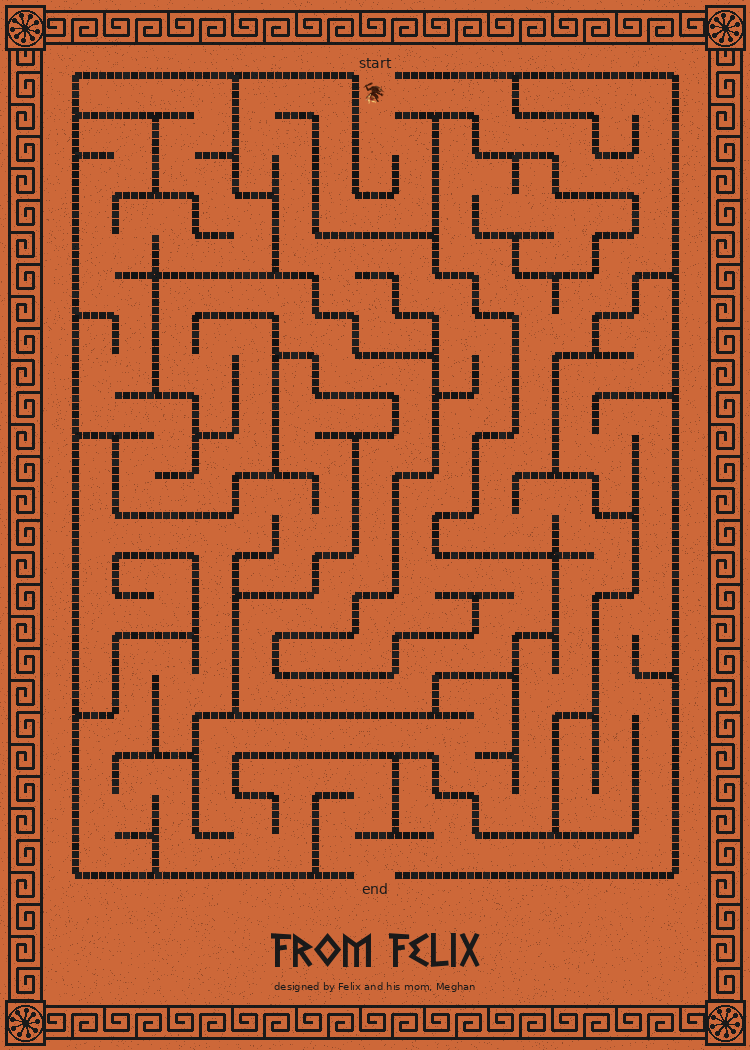
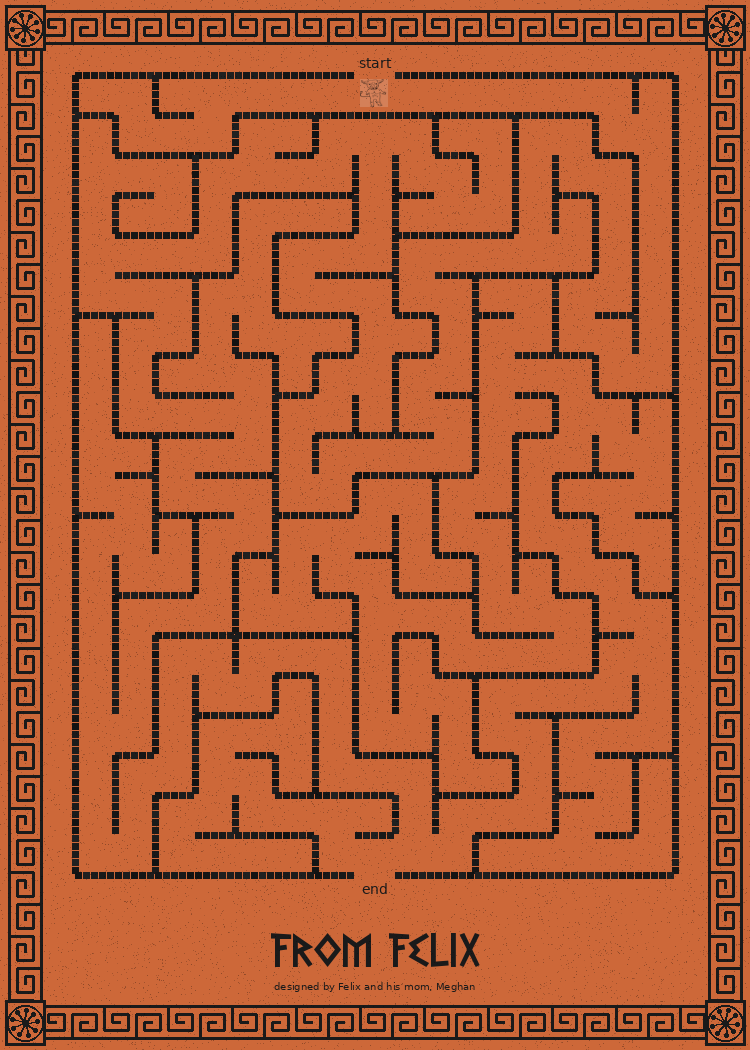
Use minotaur_icon.png for maze entrance

diff --git a/src/greek_design_system.py b/src/greek_design_system.py
@@ -604,7 +604,7 @@ def generate_greek_card_back(
 
     # Add small minotaur icon at maze entrance
     base_dir = os.path.dirname(os.path.abspath(__file__))
-    minotaur_icon_path = os.path.join(base_dir, "..", "assets", "artwork", "minotaur.png")
+    minotaur_icon_path = os.path.join(base_dir, "..", "assets", "artwork", "minotaur_icon.png")
     if os.path.exists(minotaur_icon_path):
         try:
             minotaur_icon = Image.open(minotaur_icon_path).convert('RGBA')
